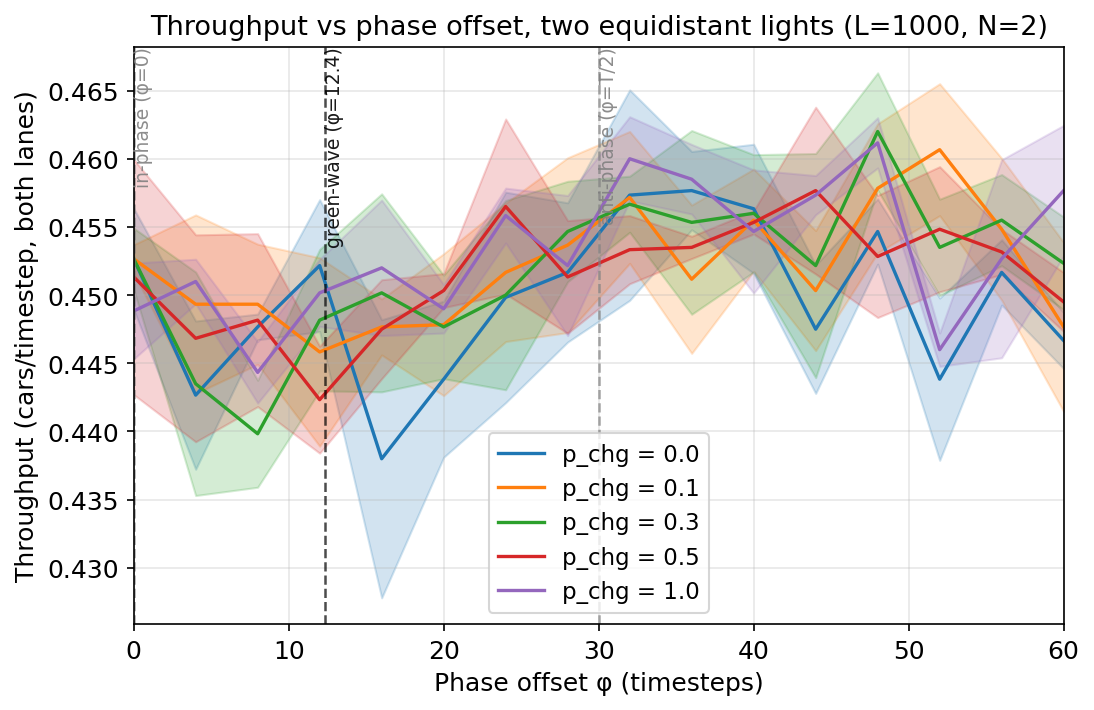
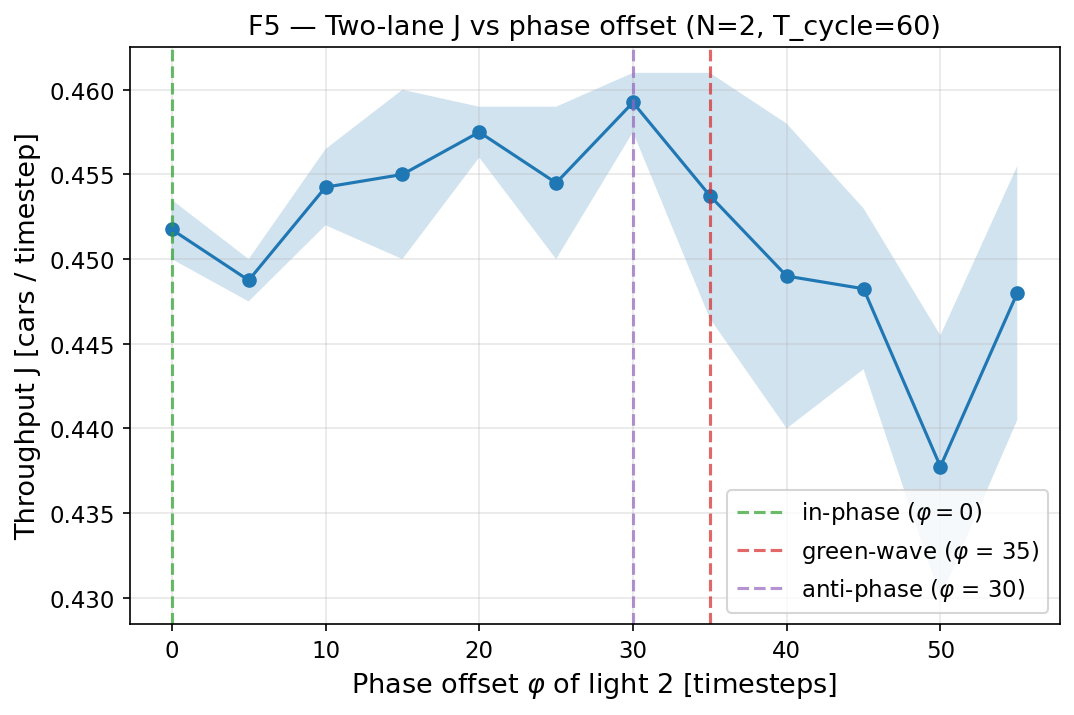
my figs

diff --git a/Bakri/notebooks/_render_figures.py b/Bakri/notebooks/_render_figures.py
@@ -445,7 +445,8 @@ def fig_F14():
 
     v_free = V_MAX - P_RAND
     spacing = L / (N + 1)
-    phi_greenwave = int(round((spacing / v_free) % T_CYCLE))
+    # Correct green-wave: phi_i = -i*spacing/v_free mod T_cycle (light JUST turns green as car arrives)
+    phi_greenwave = int(round((-spacing / v_free) % T_CYCLE))
 
     grid_inphase = record(np.array([0, 0], dtype=int))
     grid_wave = record(np.array([0, phi_greenwave], dtype=int))
@@ -715,6 +716,276 @@ def fig_F11_F12_F13():
     plt.close(fig)
 
 
+# ── Single-lane lights helpers (used by F4_single, F5_single, F6_single, F_strats) ──
+def _greenwave_offsets(N, T_cycle, v_max, p_rand, L):
+    """Phase offsets that align consecutive lights at the free-flow speed.
+
+    A car leaving light 0 at the moment it turns green travels at v_free for
+    `spacing/v_free` steps before reaching light 1; light 1 should JUST turn
+    green at that arrival time. With phase_i(t) = (t + φ_i) mod T_cycle and
+    light green iff phase < T_green, "just turning green" means phase = 0.
+    Setting (travel_time + φ_1) mod T_cycle = 0 gives φ_i = (-i × travel_time) mod T_cycle.
+    The opposite sign (positive) is sub-optimal: light 1 turns green BEFORE
+    the car arrives, wasting green time.
+    """
+    v_free = max(0.1, v_max - p_rand)
+    spacing = L / (N + 1)
+    return np.array([
+        int(round((-i * spacing / v_free) % T_cycle)) for i in range(N)
+    ], dtype=int)
+
+
+def _measure_J_single_lights(L, v_max, p_rand, p_in, N, T_cycle, T_green,
+                              phase_offsets, T_warmup, T_measure, seed):
+    """Run TrafficCAWithLights for one (param-set, seed) and return through-flow J."""
+    np.random.seed(int(seed))
+    sim = TrafficCAWithLights(
+        L=L, v_max=int(v_max), p_rand=float(p_rand), p_in=float(p_in),
+        N=int(N), T_cycle=int(T_cycle), T_green=int(T_green),
+        phase_offsets=np.asarray(phase_offsets, dtype=int),
+    )
+    sim.warmup(T_warmup)
+    return sim.run(T_measure)
+
+
+# ── F4_single — single-lane J(T_cycle) for several N ──────────────────────
+def fig_F4_single():
+    L = 500
+    V_MAX = 5
+    P_RAND = 0.3
+    P_IN = 0.4
+    SEEDS = np.arange(3)
+    TC_GRID = np.array([10, 20, 30, 40, 60, 80, 100, 150])
+    N_GRID = np.array([1, 2, 3])
+    T_WARMUP = 800
+    T_MEASURE = 2500
+
+    def compute():
+        flow = np.zeros((len(N_GRID), len(TC_GRID), len(SEEDS)))
+        for ni, N in enumerate(N_GRID):
+            for ti, Tc in enumerate(TC_GRID):
+                T_green = int(Tc) // 2
+                phi = _greenwave_offsets(int(N), int(Tc), V_MAX, P_RAND, L)
+                for si, seed in enumerate(SEEDS):
+                    flow[ni, ti, si] = _measure_J_single_lights(
+                        L, V_MAX, P_RAND, P_IN, int(N), int(Tc), T_green,
+                        phi, T_WARMUP, T_MEASURE, int(seed),
+                    )
+        return dict(flow=flow, T_cycle_grid=TC_GRID, N_grid=N_GRID, seeds=SEEDS,
+                    L=L, v_max=V_MAX, p_rand=P_RAND, p_in=P_IN,
+                    T_warmup=T_WARMUP, T_measure=T_MEASURE)
+
+    d = load_or_compute(os.path.join(DATA_DIR, "F4_single_J_vs_Tcycle.npz"), compute)
+
+    fig, ax = plt.subplots()
+    v_free = V_MAX - P_RAND
+    for ni, N in enumerate(d["N_grid"]):
+        m = d["flow"][ni].mean(-1)
+        s = d["flow"][ni].std(-1)
+        ax.plot(d["T_cycle_grid"], m, "-o", label=f"N = {int(N)}")
+        ax.fill_between(d["T_cycle_grid"], m - s, m + s, alpha=0.2)
+        # Resonance marker for this N: T_cycle = 2 * d / v_free where d = L/(N+1)
+        Tc_res = 2 * (L / (int(N) + 1)) / v_free
+        ax.axvline(Tc_res, linestyle="--", alpha=0.4,
+                   color=ax.lines[-1].get_color())
+    ax.set_xlabel(r"Cycle length $T_\mathrm{cycle}$ [timesteps]")
+    ax.set_ylabel("Throughput J [cars / timestep]")
+    ax.set_title(f"F4 — Single-lane J vs $T_\\mathrm{{cycle}}$ (green-wave; $p_\\mathrm{{in}}$={P_IN})")
+    ax.legend()
+    fig.savefig(os.path.join(FIG_DIR, "F4_single_J_vs_Tcycle.png"))
+    plt.close(fig)
+
+
+# ── F5_single — single-lane J(phi) at N=2 ────────────────────────────────
+def fig_F5_single():
+    L = 500
+    V_MAX = 5
+    P_RAND = 0.3
+    P_IN = 0.4
+    N = 2
+    T_CYCLE = 60
+    T_GREEN = 30
+    SEEDS = np.arange(3)
+    PHI_GRID = np.arange(0, T_CYCLE, 5)  # 12 points
+    T_WARMUP = 800
+    T_MEASURE = 2500
+
+    def compute():
+        flow = np.zeros((len(PHI_GRID), len(SEEDS)))
+        for pi, phi in enumerate(PHI_GRID):
+            phase_offsets = np.array([0, int(phi)], dtype=int)
+            for si, seed in enumerate(SEEDS):
+                flow[pi, si] = _measure_J_single_lights(
+                    L, V_MAX, P_RAND, P_IN, N, T_CYCLE, T_GREEN,
+                    phase_offsets, T_WARMUP, T_MEASURE, int(seed),
+                )
+        return dict(flow=flow, phi_grid=PHI_GRID, seeds=SEEDS,
+                    L=L, v_max=V_MAX, p_rand=P_RAND, p_in=P_IN,
+                    N=N, T_cycle=T_CYCLE, T_green=T_GREEN,
+                    T_warmup=T_WARMUP, T_measure=T_MEASURE)
+
+    d = load_or_compute(os.path.join(DATA_DIR, "F5_single_phi_sweep.npz"), compute)
+    m = d["flow"].mean(-1)
+    s = d["flow"].std(-1)
+
+    v_free = V_MAX - P_RAND
+    spacing = L / (N + 1)
+    phi_greenwave = int(round((spacing / v_free) % T_CYCLE))
+    phi_anti = T_CYCLE // 2
+
+    fig, ax = plt.subplots()
+    ax.plot(d["phi_grid"], m, "-o")
+    ax.fill_between(d["phi_grid"], m - s, m + s, alpha=0.2)
+    ax.axvline(0, linestyle="--", color="tab:green", alpha=0.7,
+               label=r"in-phase ($\varphi$ = 0)")
+    ax.axvline(phi_greenwave, linestyle="--", color="tab:red", alpha=0.7,
+               label=fr"green-wave ($\varphi$ = {phi_greenwave})")
+    ax.axvline(phi_anti, linestyle="--", color="tab:purple", alpha=0.7,
+               label=fr"anti-phase ($\varphi$ = {phi_anti})")
+    ax.set_xlabel(r"Phase offset $\varphi$ of light 2 [timesteps]")
+    ax.set_ylabel("Throughput J [cars / timestep]")
+    ax.set_title(f"F5 — Single-lane J vs phase offset (N={N}, $T_\\mathrm{{cycle}}$={T_CYCLE})")
+    ax.legend(loc="lower right")
+    fig.savefig(os.path.join(FIG_DIR, "F5_single_phi_sweep.png"))
+    plt.close(fig)
+
+
+# ── F6_single — single-lane J(N) for sync vs green-wave ──────────────────
+def fig_F6_single():
+    L = 500
+    V_MAX = 5
+    P_RAND = 0.3
+    P_IN = 0.4
+    T_CYCLE = 60
+    T_GREEN = 30
+    SEEDS = np.arange(3)
+    N_GRID = np.array([1, 2, 3, 4, 5, 6, 8, 10])
+    STRATEGIES = ["sync", "green-wave"]
+    T_WARMUP = 800
+    T_MEASURE = 2500
+
+    def compute():
+        flow = np.zeros((len(N_GRID), len(STRATEGIES), len(SEEDS)))
+        for ni, N in enumerate(N_GRID):
+            sync_phi = np.zeros(int(N), dtype=int)
+            wave_phi = _greenwave_offsets(int(N), T_CYCLE, V_MAX, P_RAND, L)
+            for si_strat, strat_phi in enumerate([sync_phi, wave_phi]):
+                for si, seed in enumerate(SEEDS):
+                    flow[ni, si_strat, si] = _measure_J_single_lights(
+                        L, V_MAX, P_RAND, P_IN, int(N), T_CYCLE, T_GREEN,
+                        strat_phi, T_WARMUP, T_MEASURE, int(seed),
+                    )
+        return dict(flow=flow, N_grid=N_GRID, strategies=np.array(STRATEGIES),
+                    seeds=SEEDS, L=L, v_max=V_MAX, p_rand=P_RAND, p_in=P_IN,
+                    T_cycle=T_CYCLE, T_green=T_GREEN,
+                    T_warmup=T_WARMUP, T_measure=T_MEASURE)
+
+    d = load_or_compute(os.path.join(DATA_DIR, "F6_single_J_vs_N.npz"), compute)
+
+    fig, ax = plt.subplots()
+    for si_strat, strat in enumerate(STRATEGIES):
+        m = d["flow"][:, si_strat, :].mean(-1)
+        s = d["flow"][:, si_strat, :].std(-1)
+        ax.plot(d["N_grid"], m, "-o", label=strat)
+        ax.fill_between(d["N_grid"], m - s, m + s, alpha=0.2)
+    ax.set_xlabel("Number of lights N")
+    ax.set_ylabel("Throughput J [cars / timestep]")
+    ax.set_title(f"F6 — Single-lane J vs N (sync vs green-wave; $T_\\mathrm{{cycle}}$={T_CYCLE})")
+    ax.legend()
+    fig.savefig(os.path.join(FIG_DIR, "F6_single_J_vs_N.png"))
+    plt.close(fig)
+
+
+# ── F_strats — single-lane J(N) for four coordination strategies ──────────
+def fig_F_strats():
+    L = 500
+    V_MAX = 5
+    P_RAND = 0.3
+    P_IN = 0.4
+    T_CYCLE = 60
+    T_GREEN = 30
+    SEEDS = np.arange(3)
+    N_GRID = np.array([2, 3, 4, 5, 6, 8])
+    STRATEGIES = ["sync", "green-wave", "anti-greenwave", "random"]
+    N_RANDOM_DRAWS = 5
+    T_WARMUP = 800
+    T_MEASURE = 2500
+
+    def offsets_for(N, strategy, rng_seed=None):
+        v_free = max(0.1, V_MAX - P_RAND)
+        spacing = L / (int(N) + 1)
+        if strategy == "sync":
+            return np.zeros(int(N), dtype=int)
+        if strategy == "green-wave":
+            # Correct: light_i turns green AS car arrives (φ_i = -i·spacing/v_free).
+            return np.array([
+                int(round((-i * spacing / v_free) % T_CYCLE)) for i in range(int(N))
+            ], dtype=int)
+        if strategy == "anti-greenwave":
+            # Reverse: light_i turns green AS car arrives going BACKWARDS — so as
+            # car (going forward) arrives the light has been red the whole window.
+            return np.array([
+                int(round((i * spacing / v_free) % T_CYCLE)) for i in range(int(N))
+            ], dtype=int)
+        if strategy == "random":
+            rng = np.random.RandomState(int(rng_seed))
+            return rng.randint(0, T_CYCLE, size=int(N))
+        raise ValueError(f"unknown strategy: {strategy}")
+
+    def compute():
+        # For sync / green-wave / anti-greenwave: 1 offset config × n_seeds seeds.
+        # For random: N_RANDOM_DRAWS independent offset configs, each over n_seeds.
+        flow = np.zeros((len(N_GRID), len(STRATEGIES), len(SEEDS)))
+        flow_random_draws = np.zeros((len(N_GRID), N_RANDOM_DRAWS, len(SEEDS)))
+        for ni, N in enumerate(N_GRID):
+            for si_strat, strat in enumerate(STRATEGIES):
+                if strat == "random":
+                    for di in range(N_RANDOM_DRAWS):
+                        phi = offsets_for(int(N), "random", rng_seed=1000 * int(N) + di)
+                        for si, seed in enumerate(SEEDS):
+                            flow_random_draws[ni, di, si] = _measure_J_single_lights(
+                                L, V_MAX, P_RAND, P_IN, int(N), T_CYCLE, T_GREEN,
+                                phi, T_WARMUP, T_MEASURE, int(seed),
+                            )
+                    flow[ni, si_strat, :] = flow_random_draws[ni].mean(axis=0)  # avg over draws
+                else:
+                    phi = offsets_for(int(N), strat)
+                    for si, seed in enumerate(SEEDS):
+                        flow[ni, si_strat, si] = _measure_J_single_lights(
+                            L, V_MAX, P_RAND, P_IN, int(N), T_CYCLE, T_GREEN,
+                            phi, T_WARMUP, T_MEASURE, int(seed),
+                        )
+        return dict(flow=flow, flow_random_draws=flow_random_draws,
+                    N_grid=N_GRID, strategies=np.array(STRATEGIES),
+                    seeds=SEEDS, L=L, v_max=V_MAX, p_rand=P_RAND, p_in=P_IN,
+                    T_cycle=T_CYCLE, T_green=T_GREEN, n_random_draws=N_RANDOM_DRAWS,
+                    T_warmup=T_WARMUP, T_measure=T_MEASURE)
+
+    d = load_or_compute(os.path.join(DATA_DIR, "F_strats.npz"), compute)
+
+    fig, ax = plt.subplots()
+    colors = {"sync": "tab:blue", "green-wave": "tab:green",
+              "anti-greenwave": "tab:red", "random": "tab:gray"}
+    for si_strat, strat in enumerate(STRATEGIES):
+        m = d["flow"][:, si_strat, :].mean(-1)
+        s = d["flow"][:, si_strat, :].std(-1)
+        ax.plot(d["N_grid"], m, "-o", label=strat, color=colors[strat])
+        ax.fill_between(d["N_grid"], m - s, m + s, alpha=0.2, color=colors[strat])
+    ax.set_xlabel("Number of lights N")
+    ax.set_ylabel("Throughput J [cars / timestep]")
+    ax.set_title(f"F-strats — Single-lane J vs N for four coordination strategies")
+    ax.legend()
+    fig.savefig(os.path.join(FIG_DIR, "F_strats.png"))
+    plt.close(fig)
+
+    # Sanity-check ordering: print mean J at N=4 for each strategy.
+    idx_n4 = int(np.argmin(np.abs(d["N_grid"] - 4)))
+    print(f"  F-strats at N={int(d['N_grid'][idx_n4])}:")
+    for si_strat, strat in enumerate(STRATEGIES):
+        Jm = float(d["flow"][idx_n4, si_strat, :].mean())
+        print(f"    {strat:<16} J = {Jm:.4f}")
+
+
 def main():
     t_total = time.time()
     _timed("F2 (single-lane open J(p_in))", fig_F2)
@@ -726,6 +997,10 @@ def main():
     _timed("F8 (two-lane phi×p_chg heatmap)", fig_F8)
     _timed("F14 (capstone in-phase vs green-wave)", fig_F14)
     _timed("F11+F12+F13 (sensitivity)", fig_F11_F12_F13)
+    _timed("F4_single (J vs T_cycle, single-lane)", fig_F4_single)
+    _timed("F5_single (J vs phi, single-lane)", fig_F5_single)
+    _timed("F6_single (J vs N, sync vs green-wave)", fig_F6_single)
+    _timed("F_strats (J vs N, 4 strategies)", fig_F_strats)
     print(f"\nALL DONE in {time.time() - t_total:.1f}s")
 
 
